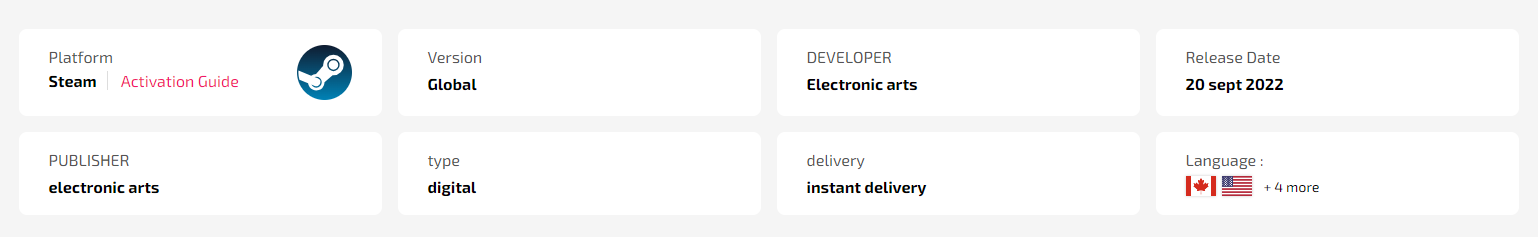
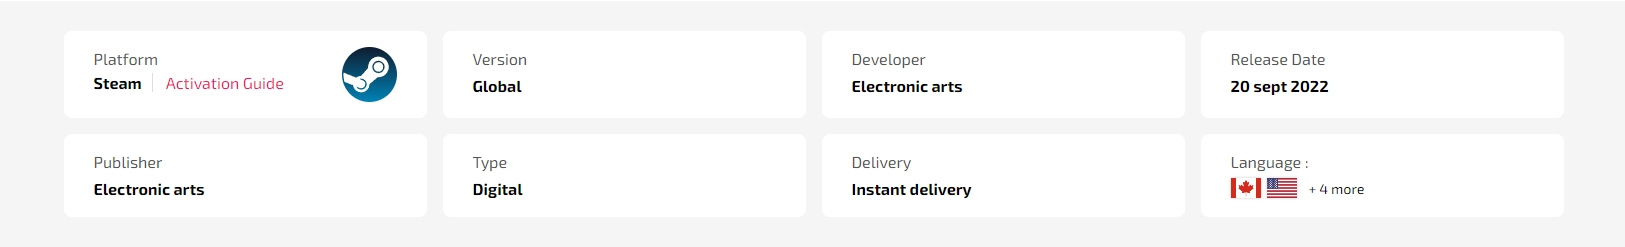
update game custom field

diff --git a/docs/usage.md b/docs/usage.md
@@ -854,12 +854,14 @@ Choose **Row wrap**, checked **Row no wrap on table** and **Row no wrap on mobil
 
 Duplicate **Banner 1** to create more similar icons. Change the image and link of the icons just created.
 
-### Special Custom Fields
+### Special game information display
 
 ![special-customfields](img/special-customfields.jpg)
 
-#### Setup Special custom fields in product info:
+#### Setup game version in product detail
+
 ![special-customfields-info](img/special-customfields-info.jpg)
+
 
 To add custom fields, go to the **Product Editor**. Find **Custom Fields**, created new custom field. These special custom fields need to be name correctly to be displayed.
 
@@ -870,9 +872,10 @@ The custom fields with specified **Custom Fields Name** are:
 `promo`
 
 For example:
+
 ![special-customfields-info-add](img/special-customfields-info-add.jpg)
 
-#### Setup Special product info - Region/Popup
+#### Setup Region/Popup restriction
 ![special-customfields-info-region](img/special-customfields-info-region.jpg)
 
 The **Custom Fields Name** `region`, the **Custom Fields Value** should be in the format of Country Codes, written as (Country Codes|Country Codes...).
@@ -884,8 +887,12 @@ You can create more than one `region` custom field and add additional Country Co
 
 ![special-customfields-info-region-add](img/special-customfields-info-region-add.jpg)
 
+Note: you only need two or more custom fields `region` when the first **custom field value** have reach word limit.
+
 #### Setup product summary
+
 ![special-customfields-summary](img/special-customfields-summary.jpg)
+
 To add custom fields, go to the **Product Editor**. Find **Custom Fields**, created new custom field. These special custom fields need to be name correctly to be displayed.
 
 The custom fields with specified **Custom Fields Name** are:
@@ -897,10 +904,12 @@ The custom fields with specified **Custom Fields Name** are:
 `Delivery`
 
 For example:
+
 ![special-customfields-summary-add](img/special-customfields-summary-add.jpg)
 
 
 #### Setup - Platform
+
 ![special-customfields-summary-platform](img/special-customfields-summary-platform.jpg)
 
 For the **Platform** section, it is constructed from 3 **Custom Fields Name**: `platform`, `activation label`, `activation link`.
@@ -936,9 +945,11 @@ The **Custom Fields Name** 'language', the **Custom Fields Value** should be in 
 
 For example: `(US|KR|BR)`.
 
-You can create more than one 'language' custom field and add additional Country Codes values.
+You can create more than one = `language` custom field and add additional Country Codes values.
 
 ![special-customfields-summary-language-add](img/special-customfields-summary-language-add.jpg)
+
+Note: you only need two or more custom fields `language` when the first custom field value have reach word limit.
 
 ## Customizing Products Display
 
